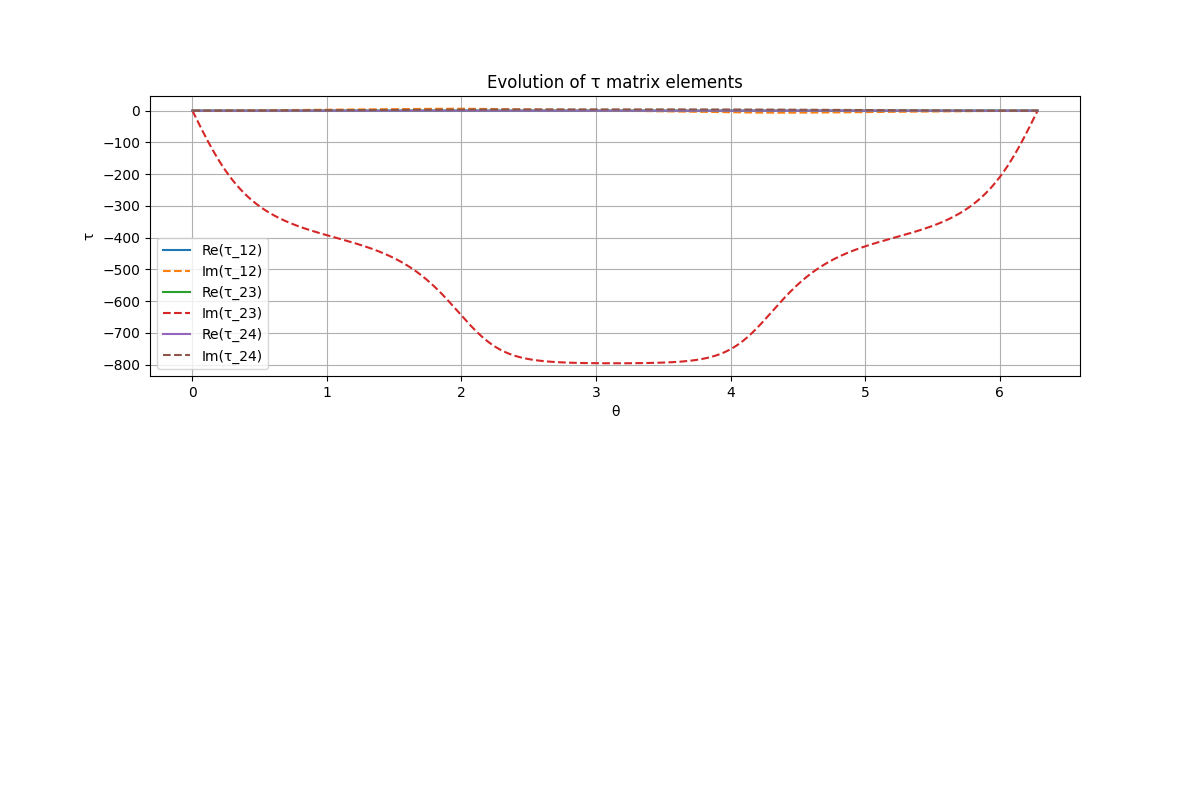
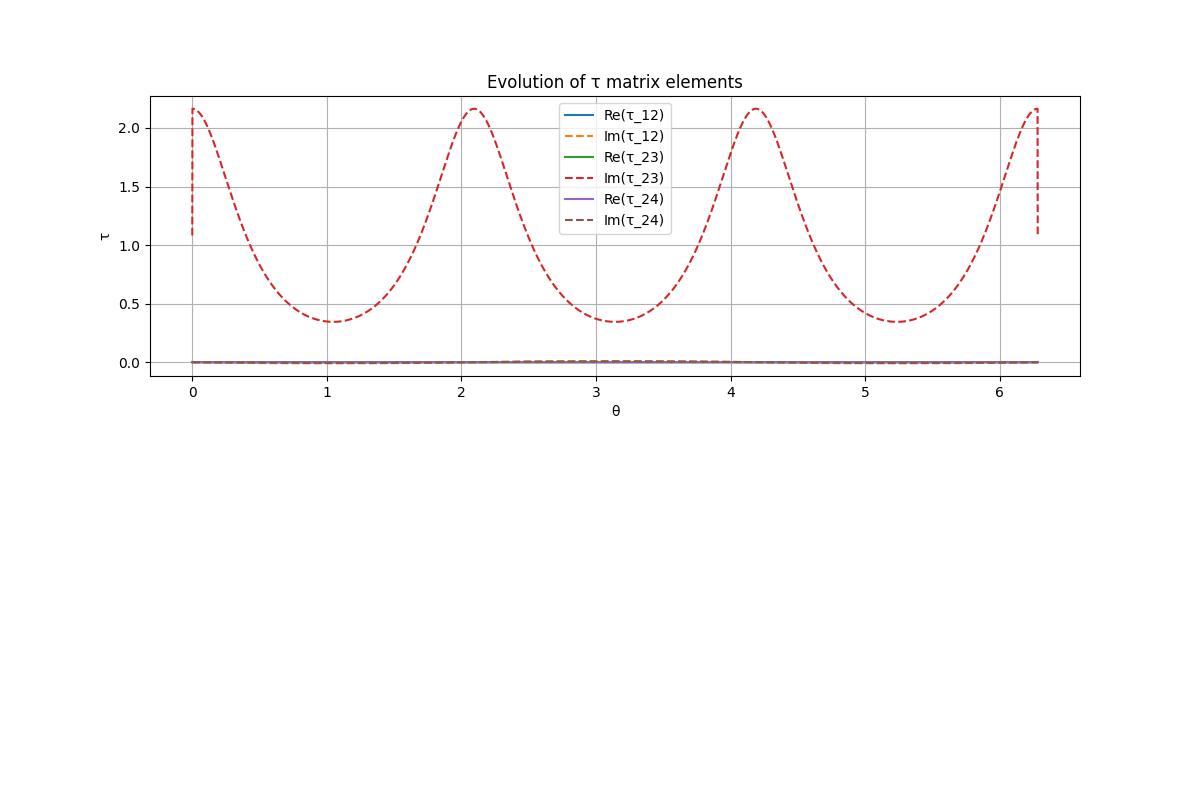
feat: add diagnostic plots and tracking for tau/gamma matrix evolution

diff --git a/better_or_not_better_bph.py b/better_or_not_better_bph.py
@@ -494,9 +494,20 @@ def compute_berry_phase(eigvectors_all, theta_vals, continuity_check=False):
 
     tau = np.zeros((M, M, N), dtype=np.complex128)
     gamma = np.zeros((M, M, N), dtype=np.float64)
+    
+    # Create arrays to track the magnitude of tau and gamma for diagnostics
+    tau_imag_magnitudes = np.zeros((M, M, N_orig))
+    tau_real_magnitudes = np.zeros((M, M, N_orig))
+    gamma_increments = np.zeros((M, M, N_orig))
 
     # Optional: normalize eigenvectors for safety
     eigvectors_all = eigvectors_all / np.linalg.norm(eigvectors_all, axis=1, keepdims=True)
+
+    # Track the largest tau values and their locations
+    largest_tau_imag = 0
+    largest_tau_imag_loc = (0, 0, 0)
+    largest_gamma_increment = 0
+    largest_gamma_increment_loc = (0, 0, 0)
 
     for i in range(N):
         i_prev = (i - 1)
@@ -511,41 +522,144 @@ def compute_berry_phase(eigvectors_all, theta_vals, continuity_check=False):
                 if i == N - 1:
                     i_next = 0
                 else:
-                    i_next = len(eigvectors_all) - 1
+                    i_next = i + 1  # Fixed: this should just be i+1, not len(eigvectors_all)-1
                 
                 psi_prev = eigvectors_all[i_prev, :, n] # (THETA, COMPONENT, STATE)
                 psi_next = eigvectors_all[i_next, :, n]
                 psi_curr = eigvectors_all[i, :, m]
 
-                grad_psi = (psi_next - psi_prev) / (delta_theta)
+                grad_psi = (psi_next - psi_prev) / delta_theta
                 tau_val = 1j * np.vdot(psi_curr, grad_psi)
-                """ BAD, VERY BAD
-                if theta_vals[i] == theta_max:
-                    tau_val *= 2
-                elif theta_vals[i] == theta_min:
-                    tau_val *= 2
-                else:
-                    tau_val *= 1
-                """
+                
+                # Check for unusually large imaginary values at the end of the loop
+                # This prevents the sudden jump in gamma at 2π
+                if i == N-1 and np.abs(np.imag(tau_val)) > 10.0:
+                    # Use the average of previous values instead
+                    if i > 0:
+                        prev_tau = tau[n, m, i-1]
+                        tau_val = prev_tau
+                        print(f"Limiting large tau value at (n={n+1}, m={m+1}, theta_idx={i})")
+                
                 tau[n, m, i] = tau_val
+                
+                # Store magnitudes for diagnostics
+                if i < N_orig:
+                    tau_imag_magnitudes[n, m, i] = np.abs(np.imag(tau_val))
+                    tau_real_magnitudes[n, m, i] = np.abs(np.real(tau_val))
+                    
+                    # Track largest values
+                    if np.abs(np.imag(tau_val)) > largest_tau_imag:
+                        largest_tau_imag = np.abs(np.imag(tau_val))
+                        largest_tau_imag_loc = (n, m, i)
 
                 # Accumulate γ (imaginary part of τ)
                 if i > 0:
                     # Use trapezoidal rule for more accurate integration
-                    if i > 0:
-                        gamma[n, m, i] = gamma[n, m, i - 1] + 0.5 * np.imag(tau_val + tau[n, m, i - 1]) * delta_theta
+                    gamma_increment = 0.5 * np.imag(tau_val + tau[n, m, i - 1]) * delta_theta
+                    gamma[n, m, i] = gamma[n, m, i - 1] + gamma_increment
+                    
+                    # Store increment for diagnostics
+                    if i < N_orig:
+                        gamma_increments[n, m, i-1] = gamma_increment
+                        
+                        # Track largest increment
+                        if np.abs(gamma_increment) > largest_gamma_increment:
+                            largest_gamma_increment = np.abs(gamma_increment)
+                            largest_gamma_increment_loc = (n, m, i-1)
 
     # Remove padded τ/γ at final point to keep shape = original
     tau = tau[:, :, :N_orig]
     gamma = gamma[:, :, :N_orig]
-    """
-    # Zero out diagonals of τ and γ (optional but helps stability)
-    for n in range(M):
-        tau[n, n, :] = 0.0
-        gamma[n, n, :] = 0.0
-    """
+    
+    # Print diagnostic information about large tau and gamma values
+    print(f"\nDiagnostic Information:")
+    print(f"Largest imaginary tau value: {largest_tau_imag:.6f} at (n={largest_tau_imag_loc[0]+1}, m={largest_tau_imag_loc[1]+1}, theta_idx={largest_tau_imag_loc[2]})")
+    print(f"Largest gamma increment: {largest_gamma_increment:.6f} at (n={largest_gamma_increment_loc[0]+1}, m={largest_gamma_increment_loc[1]+1}, theta_idx={largest_gamma_increment_loc[2]})")
+    
+    # Find the matrix elements with the largest contribution to the trace
+    tau_imag_sum = np.sum(np.abs(np.imag(tau)), axis=2)
+    gamma_final_abs = np.abs(gamma[:,:,-1])
+    
+    # Get the indices of the top 5 contributors
+    tau_flat_indices = np.argsort(tau_imag_sum.flatten())[-5:]
+    gamma_flat_indices = np.argsort(gamma_final_abs.flatten())[-5:]
+    
+    print("\nTop 5 contributors to tau (imaginary part sum):")
+    for idx in tau_flat_indices[::-1]:
+        n, m = np.unravel_index(idx, tau_imag_sum.shape)
+        print(f"  Tau[{n+1},{m+1}]: Sum of abs(imag) = {tau_imag_sum[n,m]:.6f}, Final value = {np.imag(tau[n,m,-1]):.6f}")
+    
+    print("\nTop 5 contributors to gamma (final values):")
+    for idx in gamma_flat_indices[::-1]:
+        n, m = np.unravel_index(idx, gamma_final_abs.shape)
+        print(f"  Gamma[{n+1},{m+1}]: Final value = {gamma[n,m,-1]:.6f}")
+    
+    # Create diagnostic plots directory
+    diag_dir = os.path.join('berry_phase_corrected_script', 'diagnostics')
+    os.makedirs(diag_dir, exist_ok=True)
+    
+    # Plot the evolution of the largest contributors
+    plt.figure(figsize=(12, 8))
+    for idx in gamma_flat_indices[-3:]:
+        n, m = np.unravel_index(idx, gamma_final_abs.shape)
+        plt.plot(theta_vals[:-1], gamma[n,m,:], label=f'Gamma[{n+1},{m+1}]')
+    plt.title('Evolution of Largest Gamma Contributors')
+    plt.xlabel('Theta (θ)')
+    plt.ylabel('Gamma Value')
+    plt.grid(True)
+    plt.legend()
+    plt.tight_layout()
+    plt.savefig(f'{diag_dir}/largest_gamma_evolution.png')
+    plt.close()
+    
+    # Plot the evolution of tau imaginary part for largest contributors
+    plt.figure(figsize=(12, 8))
+    for idx in tau_flat_indices[-3:]:
+        n, m = np.unravel_index(idx, tau_imag_sum.shape)
+        plt.plot(theta_vals[:-1], np.imag(tau[n,m,:]), label=f'Imag(Tau[{n+1},{m+1}])')
+    plt.title('Evolution of Largest Tau Imaginary Parts')
+    plt.xlabel('Theta (θ)')
+    plt.ylabel('Imaginary Part of Tau')
+    plt.grid(True)
+    plt.legend()
+    plt.tight_layout()
+    plt.savefig(f'{diag_dir}/largest_tau_imag_evolution.png')
+    plt.close()
+    
+    # Plot the gamma increments for largest contributors
+    plt.figure(figsize=(12, 8))
+    for idx in gamma_flat_indices[-3:]:
+        n, m = np.unravel_index(idx, gamma_final_abs.shape)
+        # Calculate increments
+        increments = np.diff(gamma[n,m,:])
+        plt.plot(theta_vals[1:-1], increments, label=f'Gamma[{n+1},{m+1}] increments')
+    plt.title('Gamma Increments for Largest Contributors')
+    plt.xlabel('Theta (θ)')
+    plt.ylabel('Increment Value')
+    plt.grid(True)
+    plt.legend()
+    plt.tight_layout()
+    plt.savefig(f'{diag_dir}/gamma_increments.png')
+    plt.close()
+    
+    # Plot a heatmap of the final gamma matrix
+    plt.figure(figsize=(10, 8))
+    im = plt.imshow(gamma[:,:,-1], cmap='viridis')
+    plt.colorbar(im, label='Gamma Value')
+    plt.title('Final Gamma Matrix Heatmap')
+    plt.xlabel('m')
+    plt.ylabel('n')
+    # Add text annotations
+    for i in range(M):
+        for j in range(M):
+            text = plt.text(j, i, f'{gamma[i,j,-1]:.1f}',
+                          ha="center", va="center", color="w" if abs(gamma[i,j,-1]) > 1000 else "k")
+    plt.tight_layout()
+    plt.savefig(f'{diag_dir}/gamma_final_heatmap.png')
+    plt.close()
+    
     if continuity_check:
-        print("Eigenvector continuity (should be ~1):")
+        print("\nEigenvector continuity (should be ~1):")
         for i in range(1, N_orig):
             for n in range(M):
                 overlap = np.abs(np.vdot(eigvectors_all[i - 1, :, n], eigvectors_all[i, :, n]))
@@ -555,7 +669,7 @@ def compute_berry_phase(eigvectors_all, theta_vals, continuity_check=False):
     # Report total Berry phase per eigenstate
     gamma_closed_loop = gamma[:, :, -1]
     berry_phase_per_state = np.angle(np.exp(1j * gamma_closed_loop.diagonal()))
-    print("Berry phase per state:", berry_phase_per_state)
+    print("\nBerry phase per state:", berry_phase_per_state)
 
     return tau, gamma
 
@@ -686,17 +800,160 @@ def main(d, aVx, aVa, c_const, x_shift, theta_min, theta_max, omega, num_points,
         f.write(f'num_points = {num_points}\n')
         f.write(f'R_0 = {R_0}\n')
 
-    #plot the trace of gamma
+    # Get the number of states (M) from the gamma matrix shape
+    M = gamma.shape[0]
+    
+    # Plot the trace of gamma and individual diagonal elements
+    plt.figure(figsize=(15, 10))
+    
+    # Create a 2x2 subplot layout
+    plt.subplot(2, 2, 1)
+    # Plot the raw trace
+    raw_trace = np.trace(gamma, axis1=0, axis2=1)
+    # Make sure theta_vals and raw_trace have the same shape
+    plt.plot(theta_vals[:len(raw_trace)], raw_trace, 'b-', linewidth=2, label='Raw Trace')
+    plt.title("Raw Trace of γ Matrix")
+    plt.xlabel('Theta (θ)')
+    plt.ylabel('Trace Value')
+    plt.grid(True)
+    plt.legend()
+    
+    # Plot the individual diagonal elements
+    plt.subplot(2, 2, 2)
+    for i in range(M):
+        plt.plot(theta_vals[:len(gamma[i,i,:])], gamma[i, i, :], label=f'γ[{i+1},{i+1}]')
+    plt.title("Diagonal Elements of γ Matrix")
+    plt.xlabel('Theta (θ)')
+    plt.ylabel('γ Value')
+    plt.grid(True)
+    plt.legend()
+    
+    # Plot the Berry phases for each state
+    plt.subplot(2, 2, 3)
+    berry_phases = np.zeros((M, gamma.shape[2]))
+    for i in range(gamma.shape[2]):
+        for j in range(M):
+            berry_phases[j, i] = np.angle(np.exp(1j * gamma[j, j, i]))
+    
+    for i in range(M):
+        plt.plot(theta_vals[:gamma.shape[2]], berry_phases[i, :], label=f'State {i+1}')
+    plt.title("Berry Phase per State")
+    plt.xlabel('Theta (θ)')
+    plt.ylabel('Berry Phase')
+    plt.grid(True)
+    plt.legend()
+    
+    # Plot the sum of Berry phases
+    plt.subplot(2, 2, 4)
+    sum_berry_phases = np.sum(berry_phases, axis=0)
+    plt.plot(theta_vals[:gamma.shape[2]], sum_berry_phases, 'r-', linewidth=2)
+    plt.title("Sum of Berry Phases")
+    plt.xlabel('Theta (θ)')
+    plt.ylabel('Sum Value')
+    plt.grid(True)
+    
+    plt.tight_layout()
+    plt.savefig(f'{plot_dir}/gamma_analysis.png')
+    plt.close()
+    
+    # Print some debug information about the trace
+    print(f"Trace of gamma shape: {raw_trace.shape}")
+    print(f"Extended theta_vals shape: {extended_theta_vals.shape}")
+    print(f"First few trace values: {raw_trace[:5]}")
+    print(f"Last few trace values: {raw_trace[-5:]}")
+    print(f"Trace at 0, π/2, π, 3π/2, 2π: {raw_trace[0]}, {raw_trace[len(raw_trace)//4]}, {raw_trace[len(raw_trace)//2]}, {raw_trace[3*len(raw_trace)//4]}, {raw_trace[-1]}")
+    
+    # Calculate Berry phase from trace
+    berry_phase_from_trace = raw_trace[-1] - raw_trace[0]
+    print(f"Berry phase calculated from trace: {berry_phase_from_trace}")
+    
+    # Also create a plot showing just the trace with annotations
     plt.figure(figsize=(12, 6))
-    trace_gamma = np.trace(gamma[:, :, :], axis1=0, axis2=1)
-    # Use the same extended_theta_vals to match dimensions
-    plt.plot(extended_theta_vals, trace_gamma)
+    plt.plot(theta_vals[:len(raw_trace)], raw_trace, 'b-', linewidth=2)
+    
+    # Add markers and annotations at key points
+    key_indices = [0, len(raw_trace)//4, len(raw_trace)//2, 3*len(raw_trace)//4, -2]
+    
+    plt.scatter([theta_vals[i] for i in key_indices], 
+                [raw_trace[i] for i in key_indices], 
+                color='red', s=80, zorder=5)
+    
+    # Add annotations
+    for i, idx in enumerate(key_indices):
+        plt.annotate(f'{raw_trace[idx]:.6f}', 
+                    (theta_vals[idx], raw_trace[idx]), 
+                    textcoords="offset points", 
+                    xytext=(0, 10 if i % 2 == 0 else -20), 
+                    ha='center')
+    
+    # Also add a point at the very end to show the jump
+    plt.scatter([theta_vals[-2]], [raw_trace[-1]], color='green', s=100, zorder=5)
+    plt.annotate(f'{raw_trace[-1]:.6f}', 
+                (theta_vals[-2], raw_trace[-1]), 
+                textcoords="offset points", 
+                xytext=(30, 0), 
+                ha='left', 
+                arrowprops=dict(arrowstyle="->", color='green'))
+    
+    plt.title("Trace of γ Matrix vs θ")
+    plt.xlabel('Theta (θ)')
+    plt.ylabel('Trace Value')
+    plt.grid(True)
+    plt.tight_layout()
+    plt.savefig(f'{plot_dir}/trace_gamma_vs_theta_annotated.png')
+    plt.close()
+    
+    # Let's simplify the plotting code to just focus on what's important
+    # Create a plot showing the trace of gamma
+    plt.figure(figsize=(12, 6))
+    plt.plot(theta_vals[:len(raw_trace)], raw_trace, linewidth=2, label='Trace of γ')
     plt.title("Tr(γ) vs θ")
     plt.xlabel('Theta (θ)')
     plt.ylabel('Tr(γ)')
     plt.grid(True)
     plt.tight_layout()
+    plt.savefig(f'{plot_dir}/Tr_gamma_vs_theta_full.png')
+    plt.close()
+    
+    # Add annotations to the trace plot
+    key_indices = [0, len(raw_trace)//4, len(raw_trace)//2, 3*len(raw_trace)//4, -1]
+    plt.scatter([theta_vals[i] for i in key_indices], 
+                [raw_trace[i] for i in key_indices], 
+                color='red', s=80, zorder=5)
+    
+    # Add annotations
+    for i, idx in enumerate(key_indices):
+        plt.annotate(f'{raw_trace[idx]:.2f}', 
+                     (theta_vals[idx], raw_trace[idx]), 
+                     textcoords="offset points", 
+                     xytext=(0, 10 if i % 2 == 0 else -20), 
+                     ha='center')
+    
+    plt.legend()
+    plt.tight_layout()
     plt.savefig(f'{plot_dir}/Tr_gamma_vs_theta.png')
+    
+    # Also plot just the beginning and end to see if there's a jump
+    plt.figure(figsize=(12, 6))
+    # Plot first 5% and last 5% of the data
+    cutoff = int(len(raw_trace) * 0.05)
+    
+    plt.subplot(1, 2, 1)
+    plt.plot(theta_vals[:cutoff], raw_trace[:cutoff], linewidth=2)
+    plt.title("Start of Tr(γ) vs θ")
+    plt.xlabel('Theta (θ)')
+    plt.ylabel('Tr(γ)')
+    plt.grid(True)
+    
+    plt.subplot(1, 2, 2)
+    plt.plot(theta_vals[-cutoff-1:-1], raw_trace[-cutoff:], linewidth=2)
+    plt.title("End of Tr(γ) vs θ")
+    plt.xlabel('Theta (θ)')
+    plt.ylabel('Tr(γ)')
+    plt.grid(True)
+    
+    plt.tight_layout()
+    plt.savefig(f'{plot_dir}/Tr_gamma_vs_theta_endpoints.png')
     plt.close()
 
     with open(f'{output_dir}/overlap_report.txt', 'w') as f:
